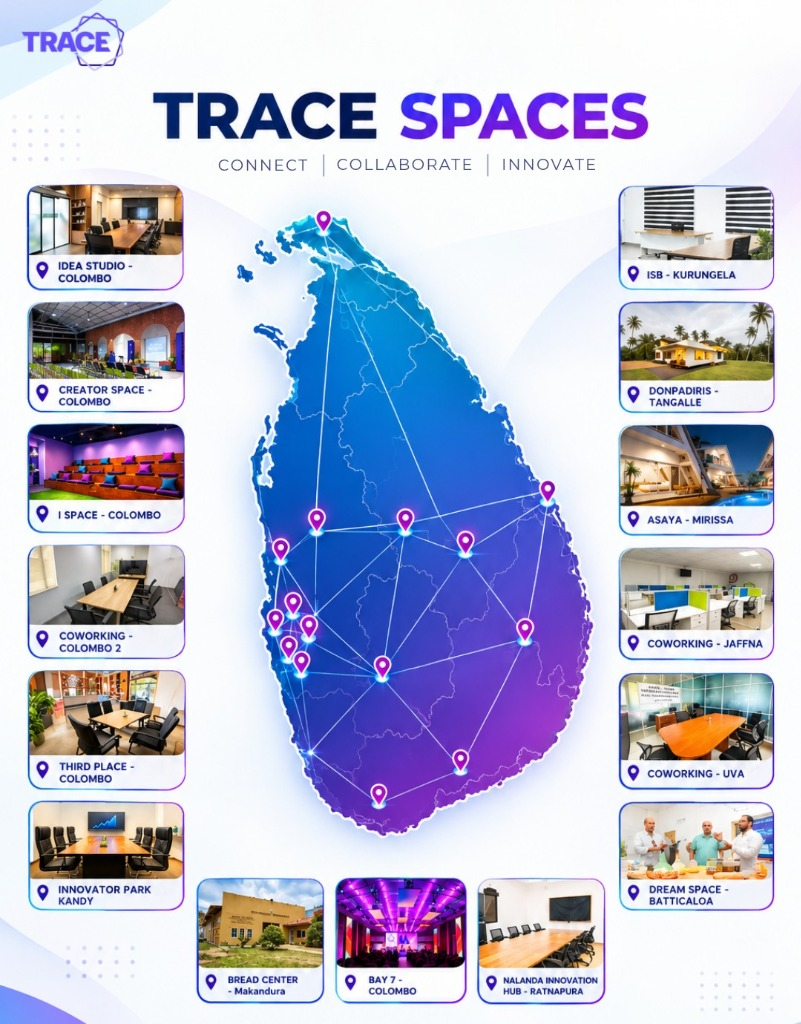
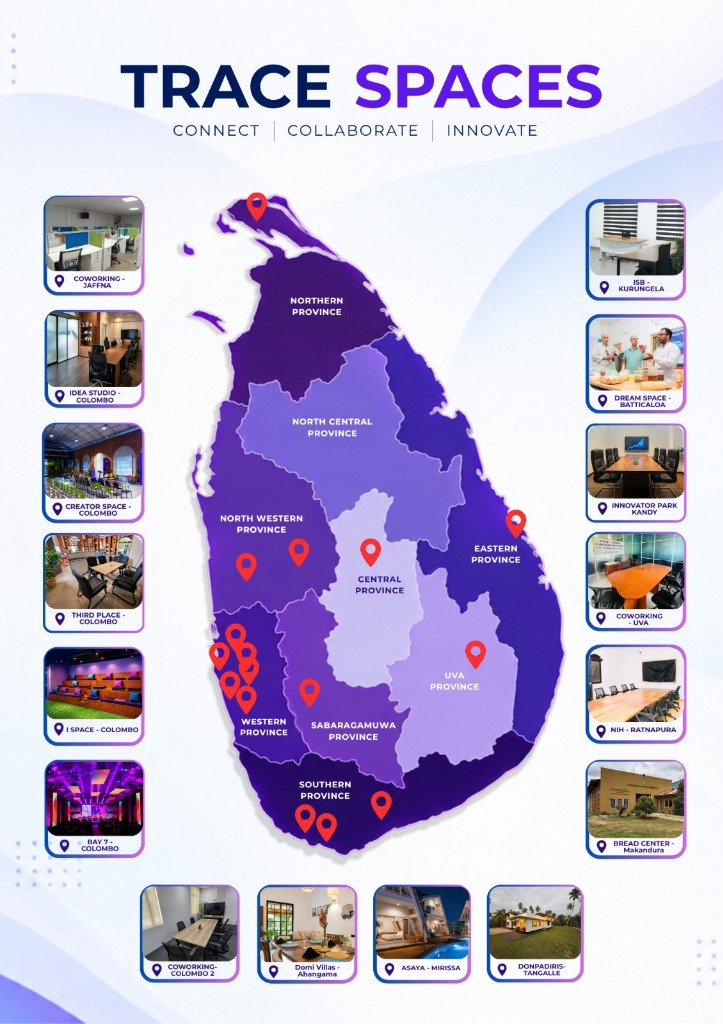
map change

diff --git a/frontend/src/components/WhyJoinSection.jsx b/frontend/src/components/WhyJoinSection.jsx
@@ -1,4 +1,5 @@
 import React, { useState } from 'react';
+import traceSpacesMap from '../assets/trace-spaces-map.jpg';
 
 export default function WhyJoinSection({ onNavigateSpaces }) {
   const [isMapExpanded, setIsMapExpanded] = useState(false);
@@ -33,7 +34,7 @@ export default function WhyJoinSection({ onNavigateSpaces }) {
 
               <div className="trace-map-image-wrapper">
                 <img 
-                  src="/trace-spaces-map.jpg" 
+                  src={traceSpacesMap} 
                   alt="TRACE Spaces Island-Wide Network across Sri Lanka" 
                   className="trace-map-image"
                   loading="lazy"
@@ -124,7 +125,7 @@ export default function WhyJoinSection({ onNavigateSpaces }) {
             </div>
             <div style={{ padding: '1rem', overflowY: 'auto', textAlign: 'center', background: '#fafafa' }}>
               <img 
-                src="/trace-spaces-map.jpg" 
+                src={traceSpacesMap} 
                 alt="TRACE Spaces Map Full" 
                 style={{ maxWidth: '100%', maxHeight: '78vh', objectFit: 'contain', borderRadius: '12px' }}
               />
